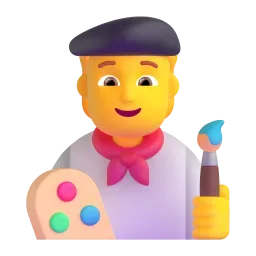
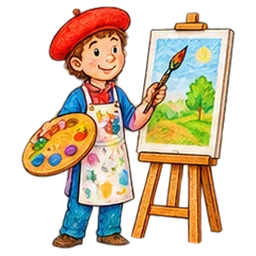
Planche 3 (151-175) : images détourées ChatGPT
Claude-Session: https://claude.ai/code/session_01UkP11uCuPaN6MyB6YyqYQX

diff --git a/sw.js b/sw.js
@@ -1,6 +1,6 @@
 // Service worker : fonctionnement hors ligne.
 // Pensez à changer VERSION à chaque mise à jour des fichiers pour que les téléphones la récupèrent.
-var VERSION = "v140";
+var VERSION = "v141";
 var CACHE = "jeux-ecole-" + VERSION;
 var FILES = [
   "./",

diff --git a/CLAUDE.md b/CLAUDE.md
@@ -116,7 +116,7 @@ Cibles >= 56px, bordures 3px, textes secondaires >= 16px, menus centrés vertica
 - **Mots activés (remplace les leçons cochées, à la demande de l'utilisateur)** : Paramètres → 📖 Mots d'allemand → interrupteur ✅ par mot, boutons Tout/Aucun par leçon et Tout activer/désactiver, **par profil** (pastilles des profils). Clé `de_off@<profil>` = mots désactivés (`deOff`, `deOffSave`, `deOn`, `deOnSet` dans `allemand-mots.js`) ; au premier usage, désactivés = mots hors des leçons cochées pour Finde das Wort ; un mot ajouté plus tard est activé d'office. Tous les jeux (pool de `deutsch.html`, `memory.html`, `courses.html`) tirent les mots activés ; difficulté allemand ×1,25 si plus de 60 mots activés. Le menu « 🎮 Réglages des jeux » est retiré des Paramètres (doublon, à la demande de l'utilisateur) : seule l'entrée « 📖 Mots d'allemand » reste (page `jeux` conservée mais inaccessible). **Le manuel reste en mémoire** (rangement par leçon, `deSelected`/`deSave`, page `lecons` masquée mais conservée).
 - (Ancien, conservé mais plus utilisé) Paramètres → 🎮 Réglages des jeux → Der · Die · Das / Finde das Wort : leçons cochées **par jeu et par profil** (clés `de_sel_dde@<profil>`, `de_sel_fdw@<profil>`, défaut `DE_DEFAULT` = leçons 1-10). Les jeux ne tirent que les mots des leçons cochées (message s'il y en a moins de 3).
 - **Dictionnaire hors manuel** (à la demande de l'utilisateur) : mots ajoutés en dehors du manuel, en **leçon 100** (`DE_DICT`, module `dico` « 📖 Dictionnaire · Mots en plus », période 0 affichée « 📖 Hors manuel » dans les réglages des leçons). **Coché d'office** dans tous les jeux (`deSelected` l'ajoute sauf si la liste enregistrée contient `-100` = décoché volontairement ; `deSave` ajoute `-100` quand il n'est pas coché). Mots : **die Klementine** (dessin `DE_SVG` : deux clémentines ; aussi dans `DE_BUY` pour la liste des courses). Pour ajouter un mot : une ligne `"100|article|Mot|emoji"` (ou image vide + dessin dans `DE_SVG`).
-- **Images Gemini (en cours)** : l'utilisateur génère les images des mots dans l'appli Gemini de son téléphone, un peu chaque jour, avec les consignes de `outils/gemini-images.md` (produit par `outils/gen_prompts.py` : style commun + sujet par mot, 230 mots, mots sans image d'abord, 20 par jour). Il renvoie les images dans la session avec leurs numéros (conseil donné : coller d'abord un message de style unique dans une nouvelle conversation, puis un sujet par message ; Gemini peut proposer plusieurs variantes, on garde la meilleure). Intégration : `python3 outils/images.py <image> <Mot> …` rogne le blanc, met en carré, réduit à 256 px, enregistre `jeux/img/de/<slug>.webp` (ä→ae, ö→oe, ü→ue, ß→ss), met à jour `DE_IMG` dans `allemand-mots.js` (l'image est prioritaire sur l'emoji et le dessin : `deImg` = `<img class="deimg">` 1,3em, chemin relatif à l'accueil) et la liste entre `// images-de` dans `sw.js`. Puis changer `VERSION`. Faites : 1 à 125 (tous les mots ont une image). **Planches 2 (126-150), 4 (176-200) et 6 (226-230) faites avec ChatGPT, images détourées sur fond transparent : découpe `python3 outils/decoupe.py planche.png dossier` (composantes connexes : parasites retirés, traits fins gardés, dessins entiers même s'ils débordent ; `colonnes lignes` en option, ex. `5 1`), puis `images.py` (garde la transparence). **Prompts prêts : `outils/chatgpt-planches.md`** (planche 3, planche 5 avec chiffres, et Lerne A/B/C = les 74 mots de « Lerne neue Wörter » sans image, numérotés L1-L74, grilles 5 × 5 ; à intégrer avec `decoupe.py` puis `images.py <img> <Mot>`, ce qui les fait entrer dans l'exercice). Reste : planches 3 et 5 de `gemini-planches.md` (n° 151-175 et 201-225, encore en Fluent 3D), à demander à ChatGPT en fond transparent ; **les nombres (zwei, sechs, sieben, neun, zwölf) = gros chiffres dessinés, pas des objets à compter** (à la demande de l'utilisateur : zwei, neun, sieben, sechs refaits avec la planche 5, en grille 6 × 5, dernière case vide) (prompt : vraie transparence, pas de damier, pas de cadre, sujets séparés ; sujets blancs avec contour, pas de décor).** Rappel quotidien à 11 h 53 (Paris) demandé par l'utilisateur : tâche planifiée « Rappel : images Gemini manquantes » (`trig_01YDTJjxTUJCC9bXXBs6b6VL`), à supprimer quand tout est fait, brauchen refait avec parapluie ; planches d'harmonisation : planche 1 faite (kneten, Jäger refaits, 103-125) (planches découpées ; les cases à bordure grise sont détectées par profils de pixels non blancs, puis rognées de 9 px). Gemini peut générer une planche de 20 images en une fois : découper en grille (cases de largeur/5), puis outils/images.py. Noter chaque mot Gemini fait dans `outils/gemini-faits.txt`.
+- **Images Gemini (en cours)** : l'utilisateur génère les images des mots dans l'appli Gemini de son téléphone, un peu chaque jour, avec les consignes de `outils/gemini-images.md` (produit par `outils/gen_prompts.py` : style commun + sujet par mot, 230 mots, mots sans image d'abord, 20 par jour). Il renvoie les images dans la session avec leurs numéros (conseil donné : coller d'abord un message de style unique dans une nouvelle conversation, puis un sujet par message ; Gemini peut proposer plusieurs variantes, on garde la meilleure). Intégration : `python3 outils/images.py <image> <Mot> …` rogne le blanc, met en carré, réduit à 256 px, enregistre `jeux/img/de/<slug>.webp` (ä→ae, ö→oe, ü→ue, ß→ss), met à jour `DE_IMG` dans `allemand-mots.js` (l'image est prioritaire sur l'emoji et le dessin : `deImg` = `<img class="deimg">` 1,3em, chemin relatif à l'accueil) et la liste entre `// images-de` dans `sw.js`. Puis changer `VERSION`. Faites : 1 à 125 (tous les mots ont une image). **Planches 2 (126-150), 3 (151-175), 4 (176-200) et 6 (226-230) faites avec ChatGPT, images détourées sur fond transparent : découpe `python3 outils/decoupe.py planche.png dossier` (composantes connexes : parasites retirés, traits fins gardés, dessins entiers même s'ils débordent ; `colonnes lignes` en option, ex. `5 1`), puis `images.py` (garde la transparence). **Prompts prêts : `outils/chatgpt-planches.md`** (planche 3, planche 5 avec chiffres, et Lerne A/B/C = les 74 mots de « Lerne neue Wörter » sans image, numérotés L1-L74, grilles 5 × 5 ; à intégrer avec `decoupe.py` puis `images.py <img> <Mot>`, ce qui les fait entrer dans l'exercice). Reste : planche 5 de `gemini-planches.md` (n° 201-225, encore en Fluent 3D), à demander à ChatGPT en fond transparent ; **les nombres (zwei, sechs, sieben, neun, zwölf) = gros chiffres dessinés, pas des objets à compter** (à la demande de l'utilisateur : zwei, neun, sieben, sechs refaits avec la planche 5, en grille 6 × 5, dernière case vide) (prompt : vraie transparence, pas de damier, pas de cadre, sujets séparés ; sujets blancs avec contour, pas de décor).** Rappel quotidien à 11 h 53 (Paris) demandé par l'utilisateur : tâche planifiée « Rappel : images Gemini manquantes » (`trig_01YDTJjxTUJCC9bXXBs6b6VL`), à supprimer quand tout est fait, brauchen refait avec parapluie ; planches d'harmonisation : planche 1 faite (kneten, Jäger refaits, 103-125) (planches découpées ; les cases à bordure grise sont détectées par profils de pixels non blancs, puis rognées de 9 px). Gemini peut générer une planche de 20 images en une fois : découper en grille (cases de largeur/5), puis outils/images.py. Noter chaque mot Gemini fait dans `outils/gemini-faits.txt`.
 - **Fluent Emoji 3D** (à la demande de l'utilisateur : « Fluent pour tout ce qui représente très bien les mots, Gemini pour les autres ») : `outils/fluent.py` (liste `F` mot → emoji ; plusieurs emoji = images côte à côte, ex. Vögel, Bäume, Mäuse, zwölf) télécharge `@lobehub/fluent-emoji-3d` (npm, MIT) et écrit `jeux/img/de/<slug>.webp`, sans jamais écraser un mot de `gemini-faits.txt`. 128 mots en Fluent ; retirés car pas assez clairs : Fuß, Nebel, waschen, Freund, Freundin (→ Gemini). Ensuite (demande de l'utilisateur : « passer toute émoticône en images générées », style crayon unique) : les mots Fluent sont numérotés 103-230 dans `gemini-images.md`, et `outils/gemini-planches.md` donne des planches de 25 prêtes à coller (planche 1 = refaire aussi kneten et der Jäger). Une image Gemini remplace l'image Fluent (ajouter le mot à `gemini-faits.txt`).
 - **📖 Mots d'allemand** (Paramètres, à la demande de l'utilisateur : « gérer la liste de mots allemand et leur image, rajouter des mots ; tu me demanderas les images ») : pages `dewords` (liste par leçon avec image, recherche, « + Ajouter un mot », carte « 🖼 Mots sans image » avec consigne Gemini à copier, `dwPrompt`) et `deword` (fiche : 📷 choisir une image sur le téléphone → éditeur `phOpen(f, cb)` en carré, fond blanc, 256 px WebP ; image d'origine ; pour un mot ajouté : article, mot (majuscule auto pour un nom), leçon (défaut 100 = Dictionnaire), « image à dessiner » en français, liste des courses ; masquer un mot du manuel ; supprimer un mot ajouté). Données sur le téléphone : `localStorage.de_words = {add:[{id,n,a,w,fr,buy}], img:{Mot:dataURL}, hide:[Mot]}` ; `deBuild()` (fin de `allemand-mots.js`) calcule `DE_ALL` (tout), `DE_WORDS` (sans les masqués), `DE_BUY` (= `DE_BUY0` + mots ajoutés « courses ») ; image du téléphone > image du dépôt > emoji > dessin. Quand l'utilisateur envoie les images de ses mots ajoutés, les intégrer au dépôt (ligne `DE_RAW` + `outils/images.py`) : un mot du dépôt l'emporte sur le même mot ajouté.
 - Pas de doublon d'emoji entre mots (sinon deux réponses auraient la même image).
